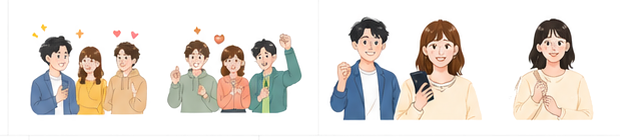
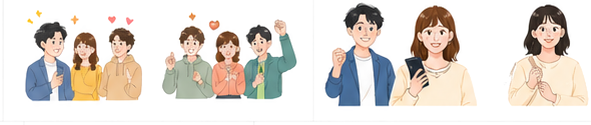
Fix FV mockup, spacing, genre cards, and image cropping
- Revert Hero phones to CSS-drawn mockup (profile/events/chat)
- Increase heading-to-card spacing across all sections (mt-12/mt-14)
- Genre cards: larger images (h-180), scale-110 to hide baked-in
  rounded corners, bigger text and padding
- Autocrop white borders from all people illustration PNGs
- Add lucide-react dependency for clean SVG icons

diff --git a/src/components/lp/Hero.tsx b/src/components/lp/Hero.tsx
@@ -67,60 +67,90 @@ export default function Hero() {
             20〜30代の社会人向け / ユーザー投稿型でスタート
           </span>
           <div className="flex gap-3 sm:gap-4 flex-wrap justify-center lg:justify-start">
-            <a
-              href="#cta"
-              className="btn btn-primary !py-3 sm:!py-4 !px-5 sm:!px-7 !text-[13px] sm:!text-[15px]"
-            >
+            <a href="#cta" className="btn btn-primary !py-3 sm:!py-4 !px-5 sm:!px-7 !text-[13px] sm:!text-[15px]">
               無料ではじめる<span className="arr">→</span>
             </a>
-            <a
-              href="#genres"
-              className="btn btn-outline !py-3 sm:!py-4 !px-5 sm:!px-7 !text-[13px] sm:!text-[15px]"
-            >
+            <a href="#genres" className="btn btn-outline !py-3 sm:!py-4 !px-5 sm:!px-7 !text-[13px] sm:!text-[15px]">
               イベントを見てみる<span className="arr">→</span>
             </a>
           </div>
         </div>
 
-        {/* Phones */}
+        {/* Phones - CSS-based mockup */}
         <div className="relative h-[360px] sm:h-[440px] lg:h-[540px] flex justify-center items-center">
-          {/* Phone Left: Event Detail */}
-          <div
-            className="phone absolute z-[2] max-sm:-translate-x-[75px] sm:-translate-x-[100px] lg:-translate-x-[150px] -rotate-[8deg] translate-y-5"
-          >
+          {/* Phone Left: Profile */}
+          <div className="phone absolute max-sm:-translate-x-[75px] sm:-translate-x-[100px] lg:-translate-x-[150px] -rotate-[8deg] translate-y-5 z-[2]">
             <div className="screen">
-              <Image
-                src="/images/screens/event-detail.png"
-                alt="イベント詳細画面"
-                fill
-                className="object-cover object-top"
-              />
+              <div className="pt-[30px] px-3 pb-2 flex items-center gap-2 border-b border-[#F2EAE0]">
+                <div className="w-8 h-8 rounded-full bg-gradient-to-br from-[#FFD9D2] to-[var(--peach)]" />
+                <div>
+                  <div className="text-[10px] font-bold">たくみ</div>
+                  <div className="text-[8px] text-ink-mute">28歳 / 東京</div>
+                </div>
+              </div>
+              <div className="h-[120px] sm:h-[140px] lg:h-[160px] bg-gradient-to-br from-[#FFD9D2] to-[var(--lavender)]" />
+              <div className="px-3 pt-2">
+                <div className="flex gap-1 mb-1">
+                  <span className="text-[8px] bg-[#FFF1E8] text-coral-deep px-2 py-0.5 rounded-full font-bold">ライブ</span>
+                  <span className="text-[8px] bg-[#FFF1E8] text-coral-deep px-2 py-0.5 rounded-full font-bold">フェス</span>
+                </div>
+                <p className="text-[9px] text-ink-soft leading-[1.5] m-0">邦ロック大好き。週末のフェス仲間募集中！</p>
+                <div className="text-[var(--yellow)] text-[9px] mt-1">★★★★★</div>
+              </div>
             </div>
           </div>
 
-          {/* Phone Center: Home */}
+          {/* Phone Center: Events */}
           <div className="phone absolute -translate-y-2.5 z-[3]">
             <div className="screen">
-              <Image
-                src="/images/screens/home.png"
-                alt="ホーム画面"
-                fill
-                className="object-cover object-top"
-              />
+              <div className="pt-[26px] pb-2 text-center">
+                <div className="text-[13px] font-black text-coral" style={{ fontFamily: "'Nunito', sans-serif" }}>ASOBO</div>
+              </div>
+              <div className="mx-3 h-[22px] bg-[#F4ECE2] rounded-full flex items-center px-2 text-[8px] text-ink-mute mb-2">🔍 イベントを探す</div>
+              <div className="px-3 flex flex-col gap-1.5">
+                {[
+                  { color: "from-[#7B5BB6] to-coral", badge: "LIVE", badgeBg: "bg-coral", title: "週末J-POPライブ", sub: "渋谷 / 4/30 ・参加4名" },
+                  { color: "from-[#FFB54A] to-[#FF8B5C]", badge: "フェス", badgeBg: "bg-[#FF8B5C]", title: "クラフトビールフェス", sub: "恵比寿 / 5/3 ・参加6名" },
+                  { color: "from-[#5FCFC1] to-[#3A9B8E]", badge: "スポーツ", badgeBg: "bg-[#3A9B8E]", title: "サッカー観戦オフ", sub: "国立 / 5/10 ・参加3名" },
+                  { color: "from-[#D8C9A8] to-[#A89878]", badge: "アート", badgeBg: "bg-[#A89878]", title: "現代アート展", sub: "六本木 / 5/14" },
+                ].map((ev, i) => (
+                  <div key={i} className="flex gap-2 items-center p-1.5 rounded-lg bg-paper border border-[#F4ECE2]">
+                    <div className={`w-9 h-9 rounded-lg shrink-0 bg-gradient-to-br ${ev.color}`} />
+                    <div>
+                      <span className={`text-[6px] ${ev.badgeBg} text-white px-1 py-px rounded font-bold inline-block mb-px`}>{ev.badge}</span>
+                      <div className="text-[8px] font-bold leading-[1.3]">{ev.title}</div>
+                      <div className="text-[7px] text-ink-mute">{ev.sub}</div>
+                    </div>
+                  </div>
+                ))}
+              </div>
             </div>
           </div>
 
           {/* Phone Right: Chat */}
-          <div
-            className="phone absolute z-[2] max-sm:translate-x-[75px] sm:translate-x-[100px] lg:translate-x-[150px] rotate-[8deg] translate-y-5"
-          >
+          <div className="phone absolute max-sm:translate-x-[75px] sm:translate-x-[100px] lg:translate-x-[150px] rotate-[8deg] translate-y-5 z-[2]">
             <div className="screen">
-              <Image
-                src="/images/screens/chat.png"
-                alt="チャット画面"
-                fill
-                className="object-cover object-top"
-              />
+              <div className="pt-[26px] px-3 pb-2 flex items-center gap-2 border-b border-[#F2EAE0]">
+                <div className="w-6 h-6 rounded-full bg-gradient-to-br from-[#FFE0A8] to-[var(--peach)]" />
+                <div>
+                  <div className="text-[10px] font-bold">あゆか</div>
+                  <div className="text-[7px] text-ink-mute">オンライン</div>
+                </div>
+              </div>
+              <div className="p-2.5 flex flex-col gap-1.5">
+                <div className="text-[8px] py-1.5 px-2 rounded-xl rounded-bl-sm bg-[#F4ECE2] text-[var(--ink)] self-start max-w-[85%] leading-[1.4]">
+                  はじめまして！フェス一緒に行きませんか？☺
+                </div>
+                <div className="text-[8px] py-1.5 px-2 rounded-xl rounded-br-sm bg-coral text-white self-end max-w-[85%] leading-[1.4]">
+                  いいですね！<br />ぜひお願いします！
+                </div>
+                <div className="text-[8px] py-1.5 px-2 rounded-xl rounded-bl-sm bg-[#F4ECE2] text-[var(--ink)] self-start max-w-[85%] leading-[1.4]">
+                  日程あわせましょう〜🎵
+                </div>
+                <div className="text-[8px] py-1.5 px-2 rounded-xl rounded-br-sm bg-coral text-white self-end max-w-[85%] leading-[1.4]">
+                  わくわくしてきた！
+                </div>
+              </div>
             </div>
           </div>
 

diff --git a/src/components/lp/Genres.tsx b/src/components/lp/Genres.tsx
@@ -41,33 +41,33 @@ export default function Genres() {
         <h2 className="text-center text-[24px] sm:text-[30px] font-black mb-3">
           人気の<span className="text-coral">イベントジャンル</span>
         </h2>
-        <p className="text-center text-ink-soft text-[13px] font-bold mb-8">
+        <p className="text-center text-ink-soft text-[13px] font-bold mb-10">
           <span className="text-coral">📍</span> まずは大阪エリアを中心にスタート予定
         </p>
-        <div className="grid grid-cols-1 sm:grid-cols-2 lg:grid-cols-4 gap-4">
+        <div className="grid grid-cols-1 sm:grid-cols-2 lg:grid-cols-4 gap-5">
           {genres.map((g, i) => (
             <div
               key={i}
               className="rounded-2xl overflow-hidden border border-line bg-white"
               style={{ boxShadow: "var(--shadow)" }}
             >
-              <div className="h-[140px] relative">
+              <div className="h-[180px] sm:h-[160px] lg:h-[180px] relative overflow-hidden">
                 <Image
                   src={g.image}
                   alt={g.title}
                   fill
-                  className="object-cover"
+                  className="object-cover scale-110"
                   sizes="(max-width: 640px) 100vw, (max-width: 1024px) 50vw, 25vw"
                 />
                 <span
-                  className={`absolute left-2.5 bottom-2.5 bg-white px-3 py-1 rounded-md text-[11px] font-black ${g.badgeColor} z-[1]`}
+                  className={`absolute left-3 bottom-3 bg-white px-3 py-1 rounded-md text-[12px] font-black ${g.badgeColor} z-[1]`}
                 >
                   {g.badge}
                 </span>
               </div>
-              <div className="p-4">
-                <h4 className="text-[15px] font-black mb-1">{g.title}</h4>
-                <p className="text-xs text-ink-soft m-0 leading-[1.6]">
+              <div className="p-5">
+                <h4 className="text-[16px] font-black mb-1.5">{g.title}</h4>
+                <p className="text-[13px] text-ink-soft m-0 leading-[1.6]">
                   {g.desc}
                 </p>
               </div>

diff --git a/src/components/lp/Safety.tsx b/src/components/lp/Safety.tsx
@@ -37,7 +37,7 @@ export default function Safety() {
         <h2 className="text-center text-[24px] sm:text-[30px] font-black mb-2">
           安心して使える<span className="text-coral">仕組み</span>
         </h2>
-        <p className="text-center text-ink-soft text-sm mb-9">
+        <p className="text-center text-ink-soft text-sm mb-12">
           はじめての人でも、安心してイベント参加ができるように設計。
         </p>
         <div className="grid grid-cols-1 sm:grid-cols-2 lg:grid-cols-4 gap-4">

diff --git a/src/components/lp/HowItWorks.tsx b/src/components/lp/HowItWorks.tsx
@@ -11,7 +11,7 @@ export default function HowItWorks() {
           使い方は<span className="text-coral">かんたん3ステップ</span>
         </h2>
 
-        <div className="grid grid-cols-1 lg:grid-cols-[1fr_auto_1fr_auto_1fr] gap-6 lg:gap-4 items-stretch">
+        <div className="grid grid-cols-1 lg:grid-cols-[1fr_auto_1fr_auto_1fr] gap-6 lg:gap-4 items-stretch mt-14">
           {/* Step 1 */}
           <div
             className="bg-white rounded-[20px] p-6 px-5 border border-line relative"

diff --git a/src/components/lp/Features.tsx b/src/components/lp/Features.tsx
@@ -41,7 +41,7 @@ export default function Features() {
         <h2 className="text-center text-[24px] sm:text-[30px] font-black mb-10">
           ASOBO<span className="text-coral">の特徴</span>
         </h2>
-        <div className="grid grid-cols-1 sm:grid-cols-2 lg:grid-cols-4 gap-5">
+        <div className="grid grid-cols-1 sm:grid-cols-2 lg:grid-cols-4 gap-5 mt-14">
           {features.map((f, i) => {
             const Icon = f.icon;
             return (

diff --git a/src/components/lp/PainPoints.tsx b/src/components/lp/PainPoints.tsx
@@ -29,7 +29,7 @@ export default function PainPoints() {
         <h2 className="text-center text-[24px] sm:text-[30px] font-black mb-9">
           こんなお悩み、ありませんか？
         </h2>
-        <div className="grid grid-cols-1 sm:grid-cols-3 gap-4 sm:gap-5">
+        <div className="grid grid-cols-1 sm:grid-cols-3 gap-4 sm:gap-5 mt-12">
           {pains.map((p, i) => {
             const Icon = p.icon;
             return (

diff --git a/src/components/lp/Recommend.tsx b/src/components/lp/Recommend.tsx
@@ -31,7 +31,7 @@ export default function Recommend() {
         <h2 className="text-center text-[24px] sm:text-[30px] font-black mb-9">
           こんな人に<span className="text-coral">おすすめ</span>
         </h2>
-        <div className="grid grid-cols-1 sm:grid-cols-3 gap-5">
+        <div className="grid grid-cols-1 sm:grid-cols-3 gap-5 mt-12">
           {recs.map((r, i) => (
             <div
               key={i}
